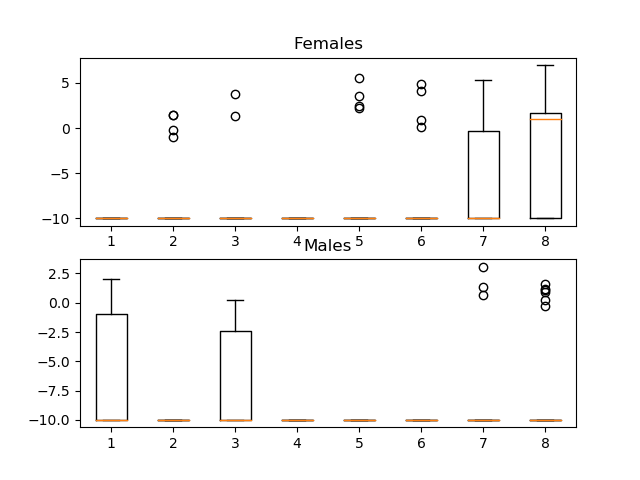
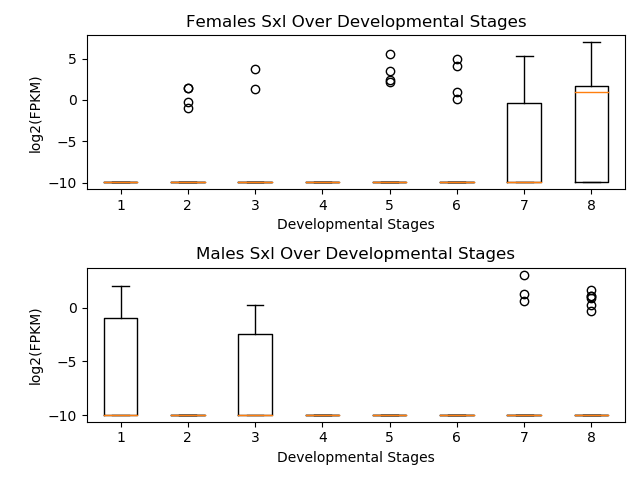
added pretty labels

diff --git a/day4-homework/01-boxplot.py b/day4-homework/01-boxplot.py
@@ -46,11 +46,18 @@ fig, ax = plt.subplots(2)
 
 f = np.log2(fpkms.loc[goi,females]+0.001)
 ax[0].boxplot(f.T)
-ax[0].set_title("Females")
+ax[0].set_title("Females Sxl Over Developmental Stages")
 
 m = np.log2(fpkms.loc[goi,males]+0.001)
 ax[1].boxplot(m.T)
-ax[1].set_title("Males")
+ax[1].set_title("Males Sxl Over Developmental Stages")
 
+ax[0].set_xlabel("Developmental Stages")
+ax[0].set_ylabel("log2(FPKM)")
+
+ax[1].set_xlabel("Developmental Stages")
+ax[1].set_ylabel("log2(FPKM)")
+
+plt.tight_layout()
 fig.savefig("boxplot.png")
 plt.close(fig)
